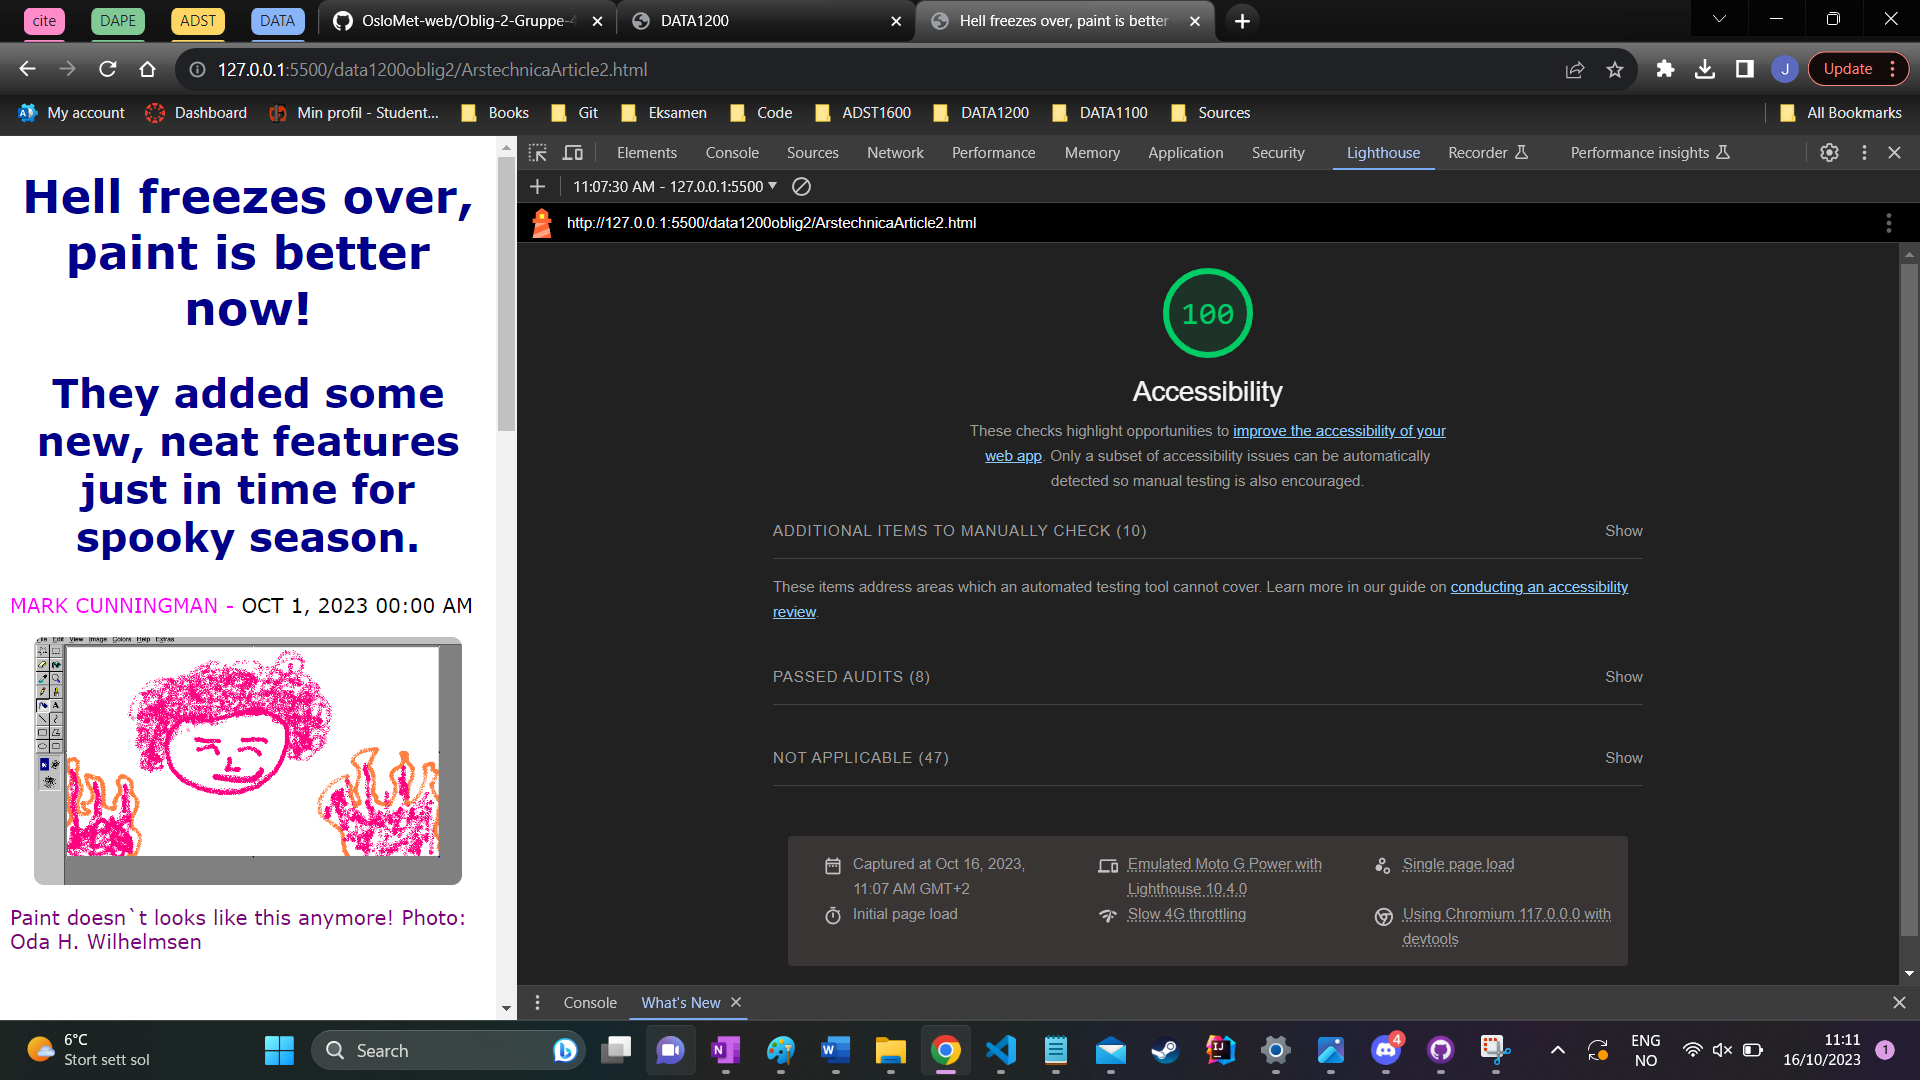
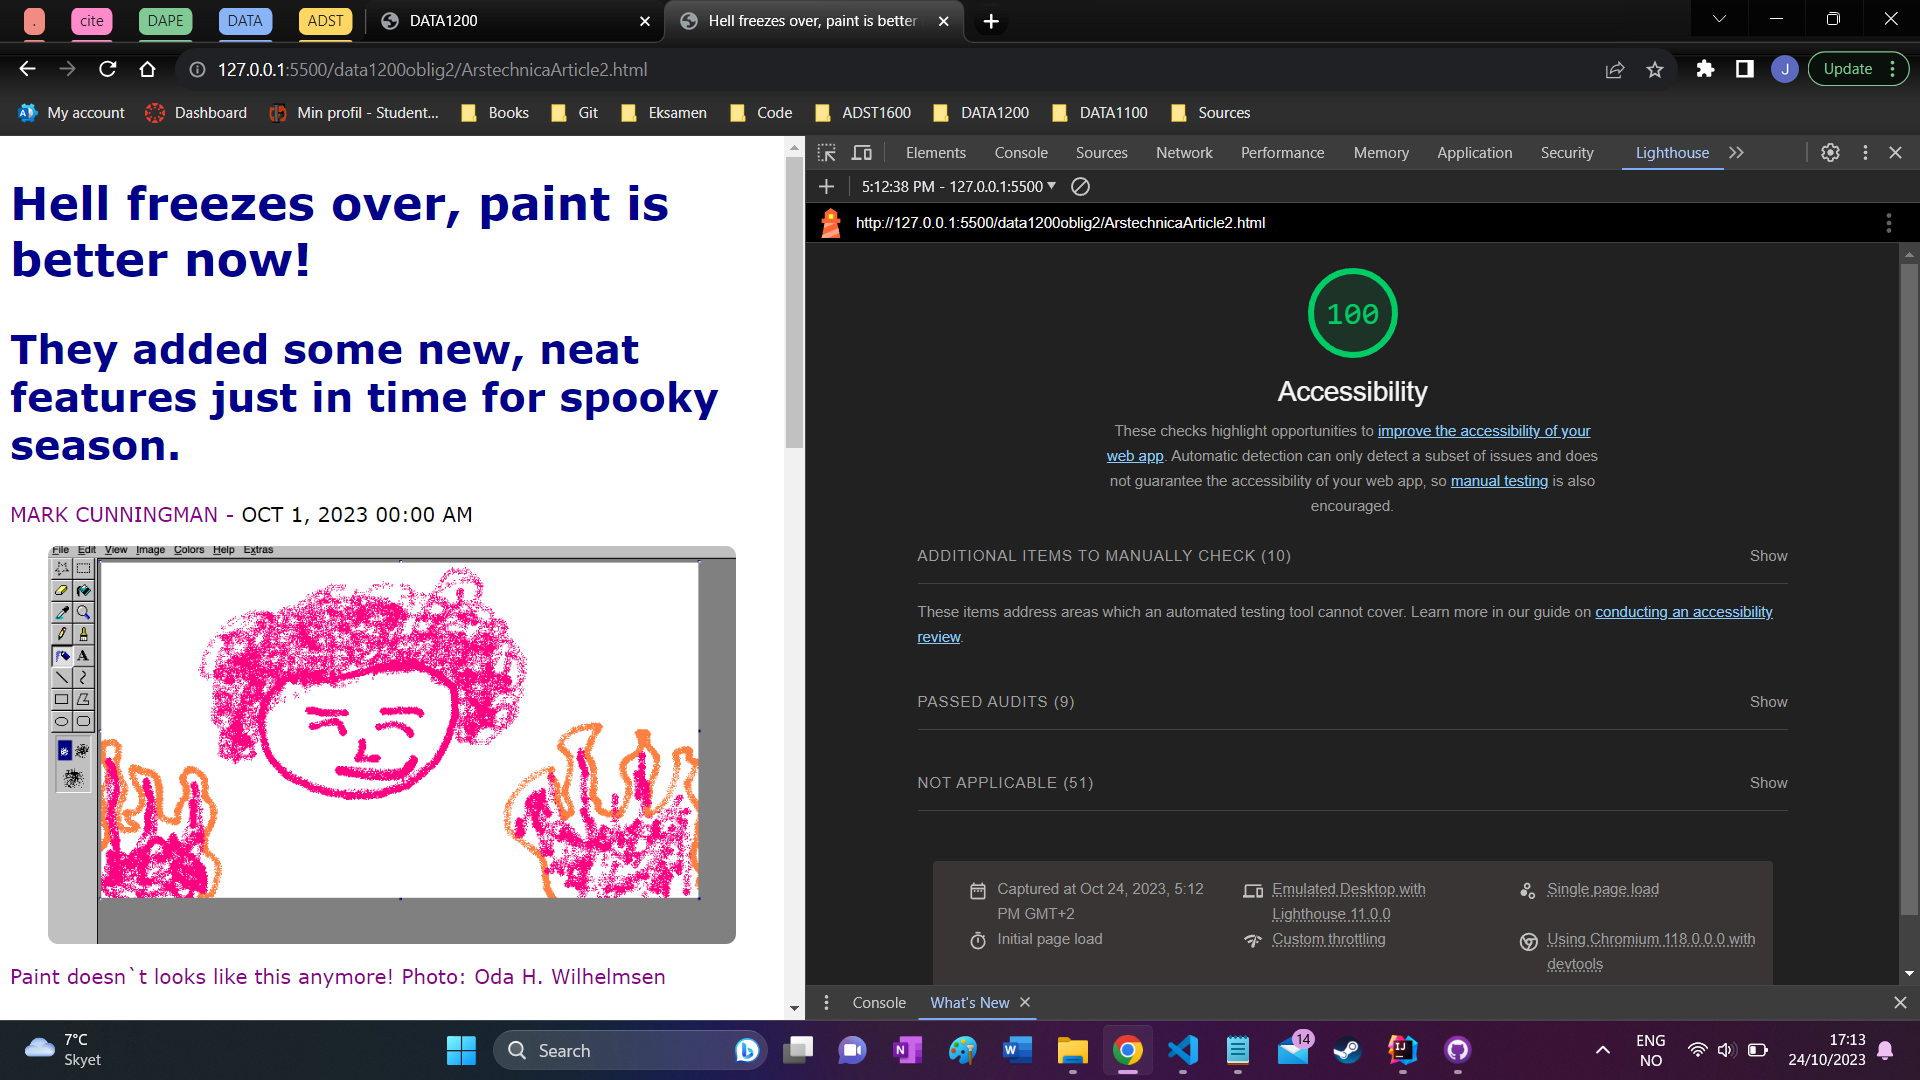
fixed colors, accessibility test and page2 section

diff --git a/data1200oblig2/css/stylesheet.css b/data1200oblig2/css/stylesheet.css
@@ -46,7 +46,7 @@ p {
 
 
 .photo-credit {
-    color: purple;
+    color: darkmagenta;
     font-family: verdana;
     text-align: left;
     size: 150%;
@@ -59,8 +59,8 @@ Which we used Google crome and developers tools to access.*/
 
 .header{
     grid-column: 1/span 12;
-        grid-column-start:1;
-        grid-column-end: span 12;
+    grid-column-start:1;
+    grid-column-end: span 12;
     width:100%;
     align-items:center;
     display:flex;
@@ -81,7 +81,8 @@ Which we used Google crome and developers tools to access.*/
 }
 
 
-/*We followed a guide to make 'Learning outcomes' a collapsible section
+/*We followed a guide to make 'Learning outcomes' a collapsible section that changes the cursor to a pointer
+and gives the icon(+) a rotating transition.
 Source: Finneran, J. (2020): Creating a collapsible section with nothing but HTML.
 Retrieved 24.10.23 from
 https://dev.to/jordanfinners/creating-a-collapsible-section-with-nothing-but-html-4ip9 */
@@ -89,21 +90,25 @@ details{
     user-select: none;
 }
 
-details>summary span.icon{
+details>summary span.nudge{
     width: 24px;
     height: 24px;
     transition: all 0.3s;
-    margin-left: auto;
-}
-
-details[open] summary span.icon {
-    transform: rotate(180deg);
+    text-align: auto;
 }
 
 summary {
     color: black;
     font-family: "Moderat","Avenir","Helvetica","Arial",sans-serif;
+    display: flex;
+    cursor: pointer;
     font-size: 150%
+}
+
+summary:hover {
+    background-color: lightgray;
+    height: 24px;
+    width: summary;
 }
 
 summary::-webkit-details-marker {
@@ -166,7 +171,7 @@ summary::-webkit-details-marker {
 makes the text written here change color between orange and grey 
 when the text is pointed at.*/
 .author {
-    color: fuchsia;
+    color: darkmagenta;
     font-family: verdana;
     size: 150%;
     cursor: pointer;

diff --git a/data1200oblig2/secondary/pageNummer2.html b/data1200oblig2/secondary/pageNummer2.html
@@ -35,7 +35,7 @@
 		<details>
 			<summary>
 				Learning outcomes
-				<span class="icon">+</span> 
+				<span class="nudge"></span>
 			</summary>
 	
 		<!--The source material used for the content of this webpage is under 'learning outcomes' on the
